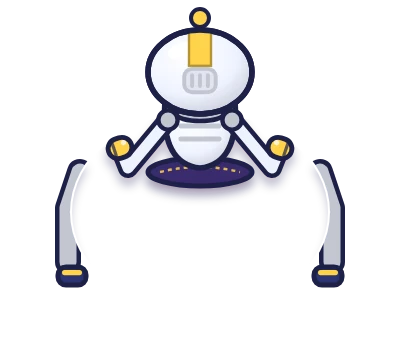
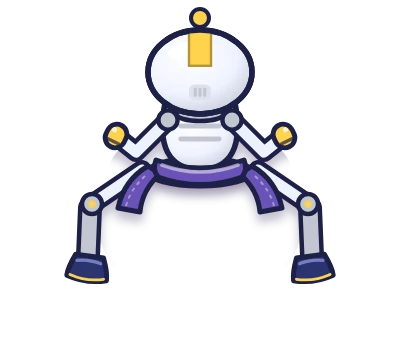
WIP: rider redesign, wash v9 art, race probes polling, engine sync
Claude-Session: https://claude.ai/code/session_011bftBeXudnSzAMBxDFXhpR

Changed region(s): [[0.12, 0.3529, 0.87, 0.8529], [0.45, 0.1765, 0.57, 0.2941]]

diff --git a/game.config.js b/game.config.js
@@ -341,11 +341,11 @@ window.GAME = {
     },
     rivals: {
       list: [
-        { name: "Zip", sprite: "critter_back_rose", rider: "rider_rival_1", color: "#ff8a3d" },
-        { name: "Nova", sprite: "critter_back_lime", rider: "rider_rival_2", color: "#5fd36a" },
-        { name: "Pixel", sprite: "critter_back_violet", rider: "rider_rival_3", color: "#a06bff" },
-        { name: "Comet", sprite: "critter_back_amber", rider: "rider_rival_4", color: "#ff5db1" },
-        { name: "Orbit", sprite: "critter_back_aqua", rider: "rider_rival_5", color: "#ffd24a" },
+        { name: "Zip", sprite: "critter_back_aqua", rider: "rider_rival_1", color: "#ff8a3d" },
+        { name: "Nova", sprite: "critter_back_violet", rider: "rider_rival_2", color: "#5fd36a" },
+        { name: "Pixel", sprite: "critter_back_lime", rider: "rider_rival_3", color: "#a06bff" },
+        { name: "Comet", sprite: "critter_back_aqua", rider: "rider_rival_4", color: "#ff5db1" },
+        { name: "Orbit", sprite: "critter_back_violet", rider: "rider_rival_5", color: "#ffd24a" },
       ],
       scale: 6.5, hw: 0.3, skill: [0.82, 0.97], gridGap: 3, gridFirst: 5, startGate: "start_gate", startGateScale: 17, lanes: [-0.62, 0.62],
       rewards: [40, 25, 15, 8, 5, 3],

diff --git a/engine.js b/engine.js
@@ -3032,7 +3032,7 @@ function openCloseup(c, a) {
   if (bg) bg.onload = cuPlaceSpots;        // re-place once natural size is known
 }
 
-// A point of a spot area at (u, v) in 0..1: a box {x,y,w,h}, or a QUAD {quad:[[x,y]×4]} (a slanted panel seen
+// A point of a spot area at (u, v) in 0..1: a box {x,y,w,h}, or a QUAD {quad:[[x,y]x4]} (a slanted panel seen
 // in perspective, corners in order around it) sampled bilinearly — kept a little inside its edges.
 function cuAreaPoint(ar, u, v) {
   if (!ar.quad) return [ar.x + u * ar.w, ar.y + v * ar.h];
